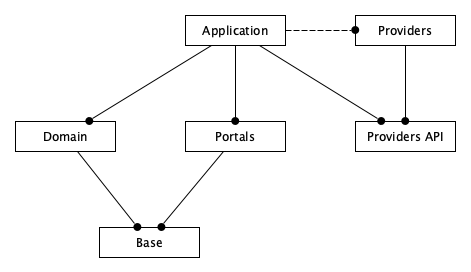
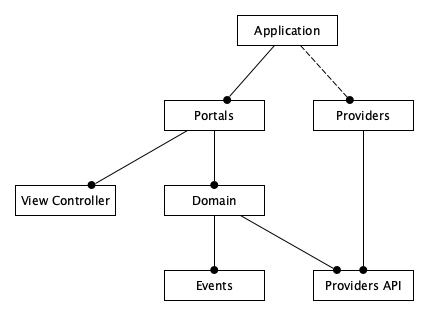
Reorder modules

diff --git a/domain/src/main/java/de/muspellheim/alarmclock/domain/Body.java b/domain/src/main/java/de/muspellheim/alarmclock/domain/Body.java
@@ -3,11 +3,10 @@
  * Copyright (c) 2018 Falko Schumann
  */
 
-package de.muspellheim.alarmclock.application;
+package de.muspellheim.alarmclock.domain;
 
-import de.muspellheim.alarmclock.domain.*;
 import de.muspellheim.alarmclock.provider.*;
-import de.muspellheim.util.*;
+import de.muspellheim.event.*;
 
 import java.time.*;
 import java.time.format.*;
@@ -15,9 +14,9 @@ import java.time.format.*;
 /**
  * The body integrates all features, but without user interaction.
  */
-class Body {
+public class Body {
 
-    // TODO Cucumber tests
+    // TODO Cucumber tests for domain design, see readme file
 
     private final Event<String> onCurrentTime = new Event<>();
     private final Event<String> onRemainingTime = new Event<>();
@@ -26,23 +25,23 @@ class Body {
     private final AlarmBell alarmBell;
     private final Watchdog watchdog;
 
-    Body(AlarmBell alarmBell) {
+    public Body(AlarmBell alarmBell) {
         this.alarmBell = alarmBell;
         watchdog = new Watchdog();
     }
 
-    void start(String wakeUpTime) {
+    public void start(String wakeUpTime) {
         var formatter = DateTimeFormatter.ofLocalizedTime(FormatStyle.SHORT);
         var time = LocalTime.parse(wakeUpTime, formatter);
         var dateTime = LocalDateTime.of(LocalDate.now(), time);
         watchdog.startWatchingFor(dateTime);
     }
 
-    void stop() {
+    public void stop() {
         watchdog.stopWatching();
     }
 
-    void currentTimeUpdated(LocalDateTime currentTime) {
+    public void currentTimeUpdated(LocalDateTime currentTime) {
         watchdog.check(currentTime, this::remainingTimeUpdated, this::wakeUpTimeReached);
 
         var formatter = DateTimeFormatter.ofLocalizedTime(FormatStyle.MEDIUM);
@@ -61,15 +60,15 @@ class Body {
         alarmBell.ring();
     }
 
-    Event<String> onCurrentTime() {
+    public Event<String> onCurrentTime() {
         return onCurrentTime;
     }
 
-    Event<String> onRemainingTime() {
+    public Event<String> onRemainingTime() {
         return onRemainingTime;
     }
 
-    Action onWakeUpTimeReached() {
+    public Action onWakeUpTimeReached() {
         return onWakeUpTimeReached;
     }
 

diff --git a/portals/src/main/java/de/muspellheim/alarmclock/portal/AlarmClockController.java b/portals/src/main/java/de/muspellheim/alarmclock/portal/AlarmClockController.java
@@ -5,8 +5,9 @@
 
 package de.muspellheim.alarmclock.portal;
 
-import de.muspellheim.fxml.*;
-import de.muspellheim.util.*;
+import de.muspellheim.alarmclock.domain.*;
+import de.muspellheim.event.*;
+import de.muspellheim.viewcontroller.*;
 import javafx.application.*;
 import javafx.fxml.*;
 import javafx.scene.control.*;
@@ -28,7 +29,8 @@ public class AlarmClockController extends ViewController {
     @FXML
     private ToggleButton startStopButton;
 
-    public static AlarmClockController load() {
+    public static AlarmClockController load(Body body) {
+        // TODO add parameter body
         return load(AlarmClockController.class);
     }
 

diff --git a/application/src/main/java/de/muspellheim/alarmclock/application/Head.java b/application/src/main/java/de/muspellheim/alarmclock/application/Head.java
@@ -5,6 +5,7 @@
 
 package de.muspellheim.alarmclock.application;
 
+import de.muspellheim.alarmclock.domain.*;
 import de.muspellheim.alarmclock.portal.*;
 import javafx.scene.*;
 import javafx.stage.*;
@@ -22,7 +23,7 @@ class Head {
     Head(Body body, Stage primaryStage) {
         this.body = body;
         this.primaryStage = primaryStage;
-        alarmClockController = AlarmClockController.load();
+        alarmClockController = AlarmClockController.load(body);
         clock = new Clock();
 
         bind();

diff --git a/portals/src/main/java/module-info.java b/portals/src/main/java/module-info.java
@@ -1,9 +1,8 @@
 module de.muspellheim.alarmclock.portals {
-    requires javafx.controls;
-    requires javafx.fxml;
-    requires de.muspellheim.base;
+    requires transitive de.muspellheim.viewcontroller;
+    requires transitive de.muspellheim.alarmclock.domain;
 
     exports de.muspellheim.alarmclock.portal;
 
-    opens de.muspellheim.alarmclock.portal to javafx.fxml, de.muspellheim.base;
+    opens de.muspellheim.alarmclock.portal to javafx.fxml, de.muspellheim.viewcontroller;
 }

diff --git a/application/src/main/java/module-info.java b/application/src/main/java/module-info.java
@@ -1,9 +1,5 @@
 module de.muspellheim.alarmclock.application {
-    requires javafx.controls;
-    requires de.muspellheim.base;
-    requires de.muspellheim.alarmclock.domain;
     requires de.muspellheim.alarmclock.portals;
-    requires de.muspellheim.alarmclock.providers.api;
 
     uses de.muspellheim.alarmclock.provider.AlarmBell;
 

diff --git a/providers/src/main/java/module-info.java b/providers/src/main/java/module-info.java
@@ -1,6 +1,6 @@
 module de.muspellheim.alarmclock.providers {
     requires javafx.media;
-    requires de.muspellheim.alarmclock.providers.api;
+    requires transitive de.muspellheim.alarmclock.providers.api;
 
     provides de.muspellheim.alarmclock.provider.AlarmBell with de.muspellheim.alarmclock.provider.impl.AlarmBellImpl;
 }

diff --git a/domain/src/main/java/module-info.java b/domain/src/main/java/module-info.java
@@ -1,5 +1,6 @@
 module de.muspellheim.alarmclock.domain {
-    requires de.muspellheim.base;
+    requires transitive de.muspellheim.events;
+    requires transitive de.muspellheim.alarmclock.providers.api;
 
     exports de.muspellheim.alarmclock.domain;
 }

diff --git a/view-controller/src/main/java/module-info.java b/view-controller/src/main/java/module-info.java
@@ -1,0 +1,8 @@
+module de.muspellheim.viewcontroller {
+    requires transitive javafx.controls;
+    requires transitive javafx.fxml;
+
+    exports de.muspellheim.viewcontroller;
+
+    opens de.muspellheim.viewcontroller to javafx.fxml;
+}

diff --git a/application/src/main/java/de/muspellheim/alarmclock/application/AlarmClock.java b/application/src/main/java/de/muspellheim/alarmclock/application/AlarmClock.java
@@ -5,6 +5,7 @@
 
 package de.muspellheim.alarmclock.application;
 
+import de.muspellheim.alarmclock.domain.*;
 import de.muspellheim.alarmclock.provider.*;
 import javafx.application.*;
 import javafx.stage.*;

diff --git a/view-controller/src/main/java/de/muspellheim/viewcontroller/ViewController.java b/view-controller/src/main/java/de/muspellheim/viewcontroller/ViewController.java
@@ -3,7 +3,7 @@
  * Copyright (c) 2018 Falko Schumann
  */
 
-package de.muspellheim.fxml;
+package de.muspellheim.viewcontroller;
 
 import javafx.fxml.*;
 import javafx.scene.*;

diff --git a/events/src/main/java/de/muspellheim/event/Action.java b/events/src/main/java/de/muspellheim/event/Action.java
@@ -3,7 +3,7 @@
  * Copyright (c) 2018 Falko Schumann
  */
 
-package de.muspellheim.util;
+package de.muspellheim.event;
 
 import java.util.*;
 import java.util.concurrent.*;

diff --git a/events/src/main/java/de/muspellheim/event/Event.java b/events/src/main/java/de/muspellheim/event/Event.java
@@ -3,7 +3,7 @@
  * Copyright (c) 2018 Falko Schumann
  */
 
-package de.muspellheim.util;
+package de.muspellheim.event;
 
 import java.util.*;
 import java.util.concurrent.*;
